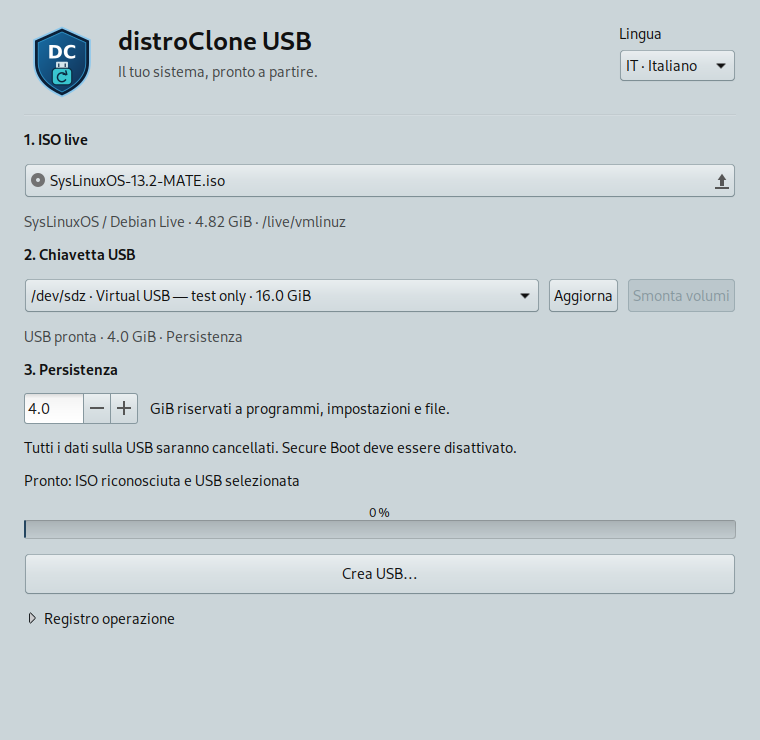
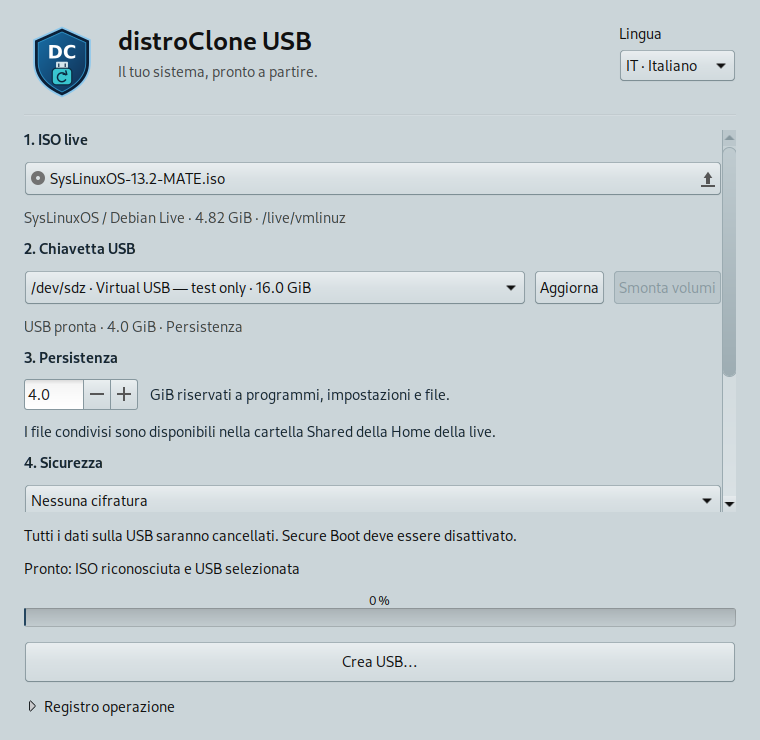
chore: prepare 0.2.0 package and encrypted USB validation records

Changed region(s): [[0.0303, 0.1554, 0.9684, 0.9014], [0.0605, 0.9324, 0.2421, 0.9635]]

diff --git a/tests/check_image_privacy.py b/tests/check_image_privacy.py
@@ -1,0 +1,35 @@
+#!/usr/bin/python3
+"""Read-only at-rest checks on disposable test images; uses no user secrets."""
+
+import argparse
+import json
+from pathlib import Path
+import subprocess
+
+
+def main():
+    parser = argparse.ArgumentParser()
+    parser.add_argument('--image', required=True)
+    parser.add_argument('--mode', choices=('persistence', 'all'), required=True)
+    args = parser.parse_args()
+    path = Path(args.image).resolve()
+    if '.test-artifacts' not in path.parts or not path.is_file():
+        parser.error('Only an existing disposable .test-artifacts image may be used')
+    table = json.loads(subprocess.check_output(['/usr/sbin/sfdisk', '--json', str(path)], text=True))['partitiontable']
+    sectors = table.get('sectorsize', 512)
+    with path.open('rb') as stream:
+        for number in ((3, 4) if args.mode == 'all' else (4,)):
+            stream.seek(table['partitions'][number - 1]['start'] * sectors)
+            assert stream.read(6) == b'LUKS\xba\xbe', ('missing LUKS header', number)
+        stream.seek(0)
+        needles = (b'distroClone TEST USB 2026 only', b'DCUSB_HOST_SHARED_MARKER', b'persisted-20261013')
+        previous = b''
+        while chunk := stream.read(8 * 1024 * 1024):
+            data = previous + chunk
+            assert not any(value in data for value in needles), 'Plaintext test data found'
+            previous = data[-128:]
+    print('PASS:', args.mode, 'LUKS headers; test phrase and private markers absent from entire raw image')
+
+
+if __name__ == '__main__':
+    main()

diff --git a/distroclone_usb/__init__.py b/distroclone_usb/__init__.py
@@ -1,3 +1,3 @@
 """Persistent live USB creation for the distroClone suite."""
 
-__version__ = '0.1.0'
+__version__ = '0.2.0'

diff --git a/docs/ENCRYPTION.md b/docs/ENCRYPTION.md
@@ -1,0 +1,67 @@
+# Shared files and encryption
+
+Every newly created USB has a `Shared` directory on its persistence volume.
+In a persistent live session, open **Shared** in the live user's home or `/Shared`.
+Files copied there from another Linux system are visible in both places.
+System changes remain in `rw` (Debian) or `upper` (casper). Do not modify those
+internal directories or `work` by hand. Shared is private to live UID 1000.
+It uses the persistence space selected in the application; there is no separate
+public FAT/exFAT partition. Windows does not read this ext4 directory natively.
+
+## Choose a mode before creation
+
+| Mode | Protected at rest | Still readable without the passphrase |
+|---|---|---|
+| No encryption | Nothing | ISO, persistence and Shared |
+| Encrypt persistence and shared files | Settings, installed applications, personal files and Shared | Original ISO and boot code |
+| Encrypt ISO, persistence and shared files | ISO plus all persistent/private contents | Minimal BIOS/EFI loader and its configuration |
+
+Encryption requires a compatible Debian Live / SysLinuxOS ISO containing
+cryptsetup, askpass, live-boot and dm-crypt in its initramfs. The application checks
+these before any target write. Encrypted casper/Ubuntu/Mint creation is currently
+rejected. Unencrypted profiles remain available for recognized casper images.
+
+The persistence volume uses LUKS2 with Argon2id. Full mode also encrypts the ISO
+volume with LUKS2/PBKDF2, supported by the installed GRUB 2.12. Both volumes use
+the same passphrase: an offline attacker can target the PBKDF2 volume, so the
+Argon2id volume does not increase the effective resistance of that shared phrase.
+Use a long, unpredictable phrase. The minimum is 12 characters for persistence
+and 20 ASCII characters for full encryption. The early boot keyboard uses US
+layout; letters, digits and spaces avoid punctuation layout differences.
+
+Full mode asks separately in GRUB and in Linux. The Linux prompt unlocks both
+required volumes. A temporary session unlocks the ISO only and does not expose
+persistent Shared. Persistence-only mode prompts in Linux for persistent boots.
+Three failed Linux unlock attempts stop booting; reboot to retry. No key is stored
+on the USB, and a forgotten passphrase cannot be recovered by this tool.
+
+The desktop sends the phrase to the fixed administrative helper through stdin.
+It is never put in command arguments, environment variables, logs or key files.
+Core dumps are disabled in the desktop and helper. Changing the interface
+language clears the phrase fields. Python and GTK do not
+guarantee elimination of every transient memory copy; encryption protects data
+at rest, not a compromised running machine.
+
+## Boundaries
+
+Creating an encrypted USB first overwrites all its logical sectors, then creates
+new volumes. It takes longer and destroys existing USB data. Flash controllers
+may retain remapped physical cells, so this is not a forensic secure-erasure
+promise. The tool does not encrypt an existing USB in place or preserve its files.
+Back them up before recreating it.
+
+The minimal boot area remains unencrypted. This feature does not authenticate
+that area or prevent a modified bootloader from stealing the phrase. Keep control
+of the USB. Secure Boot remains unsupported and must be disabled.
+Other Linux desktops can unlock LUKS volumes through their disk/file manager and
+then open Shared. Unlock the persistence volume, rather than copying private
+files onto the readable boot area or the ISO volume in persistence-only mode.
+
+## Per la pendrive già creata con 0.1
+
+La nuova cartella Shared e la cifratura si applicano alle USB create dalla nuova
+versione. Non vengono aggiunte automaticamente alla chiavetta esistente.
+I quattro `.deb` già verificati restano nella radice del suo volume persistente:
+vedi [USB-FILES.md](USB-FILES.md). Salvali prima di ricreare la USB; dopo la
+creazione copiali nella cartella `Shared` del volume persistente, sbloccandolo se
+cifrato. Nella live persistente li troverai nella Home, attraverso il link Shared.

diff --git a/README.md b/README.md
@@ -10,11 +10,11 @@ desktop ISO. Companion to **distroClone** (ISO creation) and
 
 ```bash
 bash build-deb.sh
-sudo apt install ./dist/distroclone-usb_0.1.0_all.deb
+sudo apt install ./dist/distroclone-usb_0.2.0_all.deb
 distroclone-usb
 ```
 
-Choose an ISO, select a USB drive, set persistence space in GiB, then click
+Choose an ISO, select a USB drive, set persistence space in GiB and choose an encryption mode, then click
 **Create USB**. Check the disk model, capacity and serial number, type its device
 name and authenticate. **All existing data on that drive is erased.**
 Mounted desktop volumes can be unmounted with the dedicated button. Other mounts,
@@ -25,9 +25,19 @@ normal user; only the fixed writer helper runs as administrator.
 The boot menu provides persistent, temporary and safe-graphics sessions.
 Changes to applications, settings and files persist; a live USB is not a full
 installation, and kernel/initramfs upgrades are not guaranteed to take effect.
-Version 0.1 creates an **unsigned x86-64 UEFI** loader and a **Legacy BIOS** loader.
+The tool creates an **unsigned x86-64 UEFI** loader and a **Legacy BIOS** loader.
 **Disable Secure Boot** to use the generated USB. See
 [compatibility](docs/COMPATIBILITY.md) for implemented and verified combinations.
+
+## Shared files and optional encryption
+
+New USBs expose **Shared** in the live user's home and at `/Shared`. Copy portable
+files into `Shared` on the persistence volume from another Linux system.
+Choose no encryption, encrypted persistence/Shared, or full encryption including
+the ISO. Encryption initially supports verified Debian Live / SysLinuxOS images;
+casper encryption is rejected. Full encryption keeps minimal boot code readable,
+uses a US boot keyboard and asks separately in GRUB and Linux. Existing USBs are
+not upgraded in place. See [security and usage details](docs/ENCRYPTION.md).
 
 ## Read-only commands
 

diff --git a/docs/COMPATIBILITY.md b/docs/COMPATIBILITY.md
@@ -1,6 +1,6 @@
 # Compatibility
 
-Version 0.1.0 implements profiles, not a blanket promise for every Debian derivative.
+Version 0.2.0 implements profiles, not a blanket promise for every Debian derivative.
 
 | ISO family | Implementation | Verification |
 |---|---|---|
@@ -8,13 +8,16 @@ Version 0.1.0 implements profiles, not a blanket promise for every Debian deriva
 | Ubuntu desktop / recognized Ubuntu flavors | casper, iso-scan/filename, writable since Ubuntu 20.04; casper-rw for earlier releases | Synthetic ISO/profile tests; real distribution boot pending |
 | Linux Mint desktop | casper, writable since Mint 20; casper-rw for earlier releases | Profile parsing implemented; real distribution boot pending |
 | Other Debian live-boot derivatives | Same Debian profile when ISO structure and boot entry match | Must validate each image/version |
-| MX / antiX | Recognized explicitly | Creation rejected in 0.1 |
+| MX / antiX | Recognized explicitly | Creation rejected |
 | Installer-only / Ubuntu Server | Unsupported | Creation rejected |
 | ARM, IA32-only UEFI, Secure Boot | Unsupported | Creation rejected or firmware requirement documented |
 
 The host requires GRUB i386-pc and x86_64-efi modules. An amd64 Debian/Ubuntu host
 is the intended platform. No firmware NVRAM entries or host bootloaders are changed.
-Persistence is unencrypted in 0.1. Choose its size before creation; resizing and
+Optional LUKS2 encryption is available for compatible Debian Live / SysLinuxOS
+images; casper encryption remains rejected. See ENCRYPTION.md for required
+initramfs capabilities, PBKDF2/Argon2id boundaries and boot requirements.
+Choose persistence size before creation; resizing and
 multi-ISO menus are outside this version.
 
 References:

diff --git a/CHANGELOG.md b/CHANGELOG.md
@@ -1,5 +1,16 @@
 # Changelog
 
+## 0.2.0 — 2026-10-13
+
+- Shared directory visible at /Shared and in the persistent live user's home.
+- Optional LUKS2 encryption of persistence/Shared or ISO plus all private data.
+- Debian Live / SysLinuxOS initramfs capability checks before target writes.
+- EN/IT/ES/FR/DE encryption controls, phrase confirmation and security explanations.
+- Passwords sent only through stdin; encrypted creation clears logical sectors.
+- Preserve initramfs script ordering and explicitly select decrypted live media.
+- Full encryption uses PBKDF2 for GRUB compatibility and requires a long ASCII
+  phrase; minimal boot code remains readable. Casper encryption is not enabled.
+
 ## 0.1.0 — 2026-10-13
 
 ### Added
